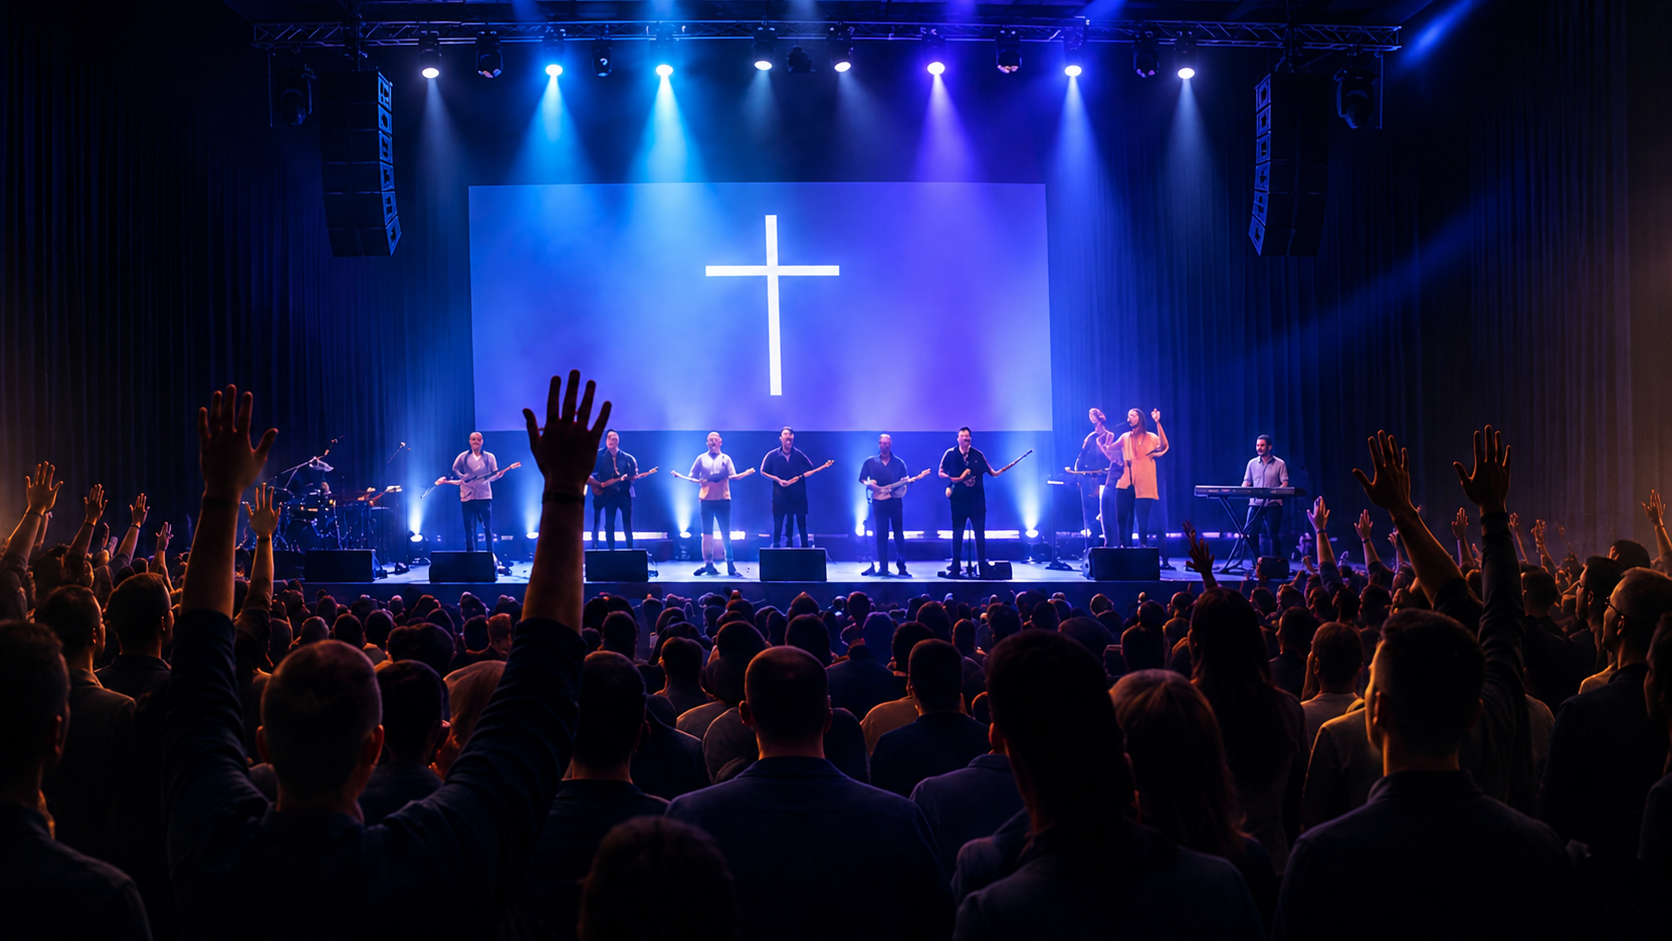
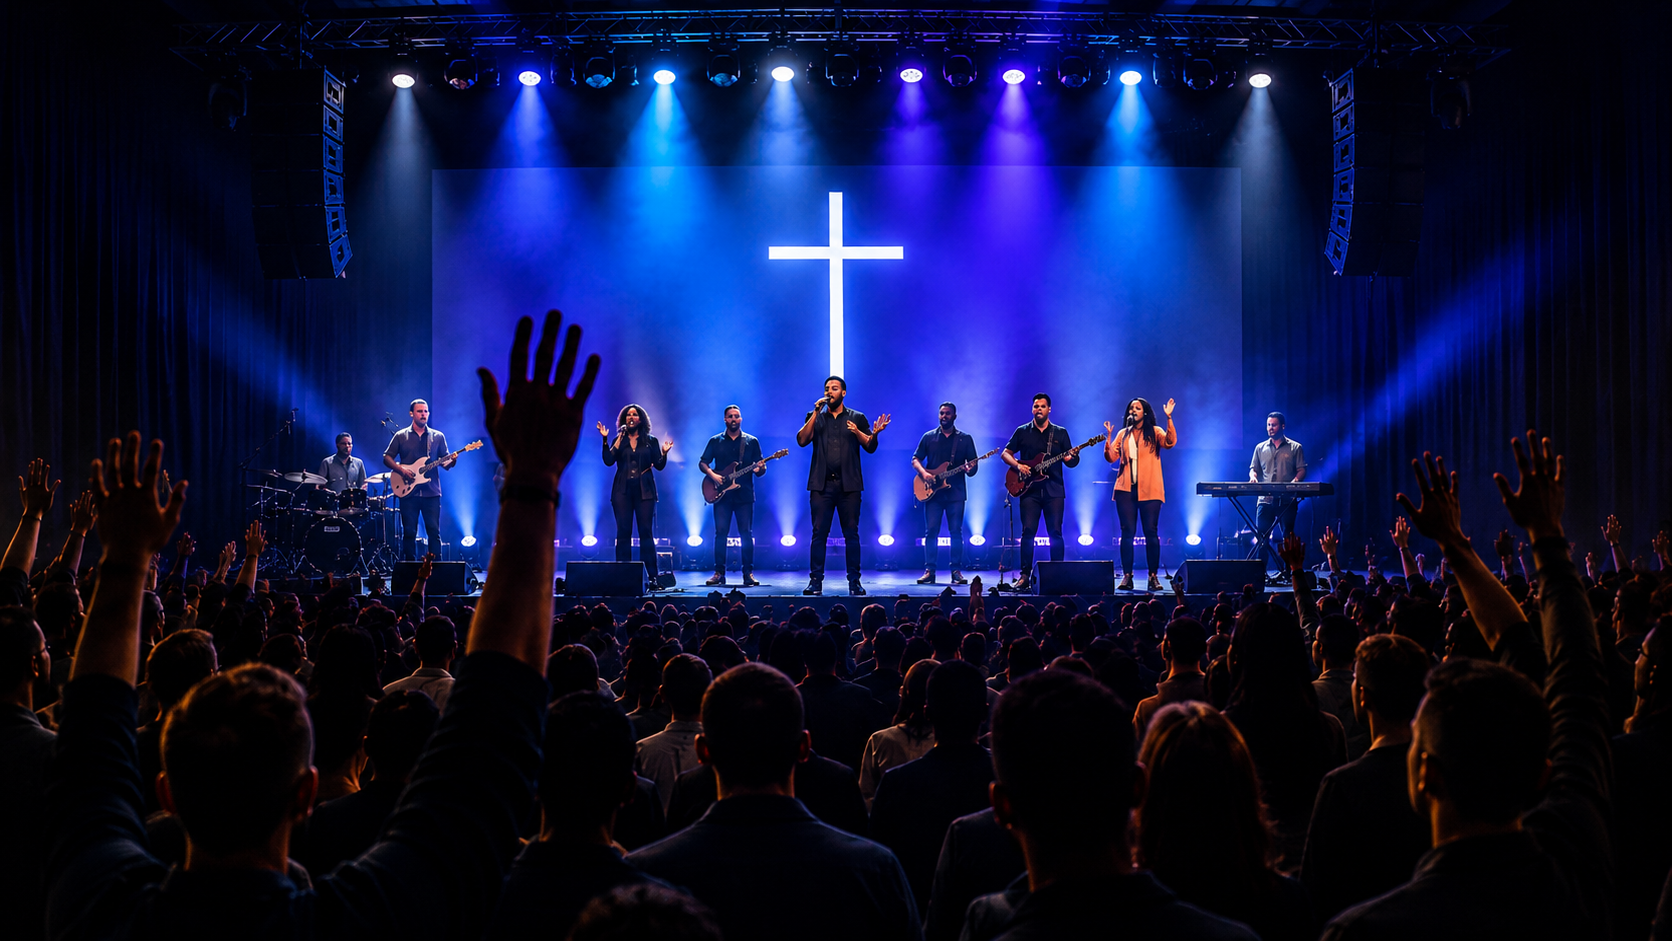
feat: enrichir la priere et les reperes bibliques

diff --git a/components/PrayerAccordion.tsx b/components/PrayerAccordion.tsx
@@ -1,0 +1,237 @@
+"use client";
+
+import { useState } from "react";
+
+type PrayerVerse = {
+  quote: string;
+  reference: string;
+};
+
+type PrayerSection = {
+  copy?: string;
+  verses: PrayerVerse[];
+};
+
+type PrayerTopic = {
+  title: string;
+  sections: PrayerSection[];
+};
+
+const prayerTopics: PrayerTopic[] = [
+  {
+    title: "Rendons grâce à Dieu",
+    sections: [
+      {
+        copy: "Rendons grâce à Dieu parce que nous ne sommes pas venus de nous-mêmes sur le territoire de Fontainebleau. Nous avons été envoyés et établis sous la couverture de l’Apôtre Yvan Castanou. Remercions Dieu pour cette couverture, cette vision et cet envoi.",
+        verses: [
+          {
+            quote: "Et comment y aura-t-il des prédicateurs, s’ils ne sont pas envoyés ?",
+            reference: "Romains 10:15"
+          },
+          {
+            quote: "Après avoir jeûné et prié, ils leur imposèrent les mains, et les laissèrent partir.",
+            reference: "Actes 13:3"
+          }
+        ]
+      },
+      {
+        copy: "Rendons grâce à Dieu parce que, jusqu’à ce jour, Il nous a toujours donné un lieu où nous rassembler et célébrer nos cultes. Malgré les changements et les contraintes, Il ne nous a jamais abandonnés et nous a toujours secourus.",
+        verses: [
+          {
+            quote: "Jusqu’ici l’Éternel nous a secourus.",
+            reference: "1 Samuel 7:12"
+          },
+          {
+            quote: "Car l’Éternel est bon ; Sa bonté dure toujours, et Sa fidélité de génération en génération.",
+            reference: "Psaume 100:5"
+          }
+        ]
+      },
+      {
+        copy: "Rendons grâce à Dieu pour tous les S.T.A.R. qui, jusqu’à ce jour, se sont mobilisés, ont servi, donné de leur temps et fait le nécessaire afin que chaque culte puisse avoir lieu.",
+        verses: [
+          {
+            quote: "Je rends grâces à mon Dieu de tout le souvenir que je garde de vous, [...] à cause de la part que vous prenez à l’Évangile.",
+            reference: "Philippiens 1:3,5"
+          },
+          {
+            quote: "Car Dieu n’est pas injuste, pour oublier votre travail et l’amour que vous avez montré pour Son nom.",
+            reference: "Hébreux 6:10"
+          }
+        ]
+      },
+      {
+        copy: "Rendons grâce à Dieu parce que nous croyons qu’Il tient entre Ses mains le cœur des autorités, des décideurs et des propriétaires sur le territoire de Fontainebleau, et qu’Il est capable de les incliner en faveur de Son dessein.",
+        verses: [
+          {
+            quote: "Le cœur du roi est un courant d’eau dans la main de l’Éternel ; Il l’incline partout où Il veut.",
+            reference: "Proverbes 21:1"
+          },
+          {
+            quote: "Ils célébrèrent avec joie [...] car l’Éternel les avait réjouis en inclinant vers eux le cœur du roi.",
+            reference: "Esdras 6:22"
+          }
+        ]
+      }
+    ]
+  },
+  {
+    title: "Prions pour que Dieu nous accorde Sa faveur dans toutes les démarches, les négociations et les décisions liées au projet.",
+    sections: [
+      {
+        verses: [
+          {
+            quote: "Le roi me donna ces lettres, car la bonne main de mon Dieu était sur moi.",
+            reference: "Néhémie 2:8"
+          },
+          {
+            quote: "Car Tu bénis le juste, ô Éternel ! Tu l’entoures de Ta grâce comme d’un bouclier.",
+            reference: "Psaume 5:13"
+          }
+        ]
+      }
+    ]
+  },
+  {
+    title: "Prions pour que Dieu pourvoie pleinement aux ressources nécessaires et suscite la générosité dans les cœurs.",
+    sections: [
+      {
+        verses: [
+          {
+            quote: "Dieu peut vous combler de toutes sortes de grâces, afin que, possédant toujours en toutes choses de quoi satisfaire à tous vos besoins, vous ayez encore en abondance pour toute bonne œuvre.",
+            reference: "2 Corinthiens 9:8"
+          },
+          {
+            quote: "Tout vient de Toi, et nous recevons de Ta main ce que nous T’offrons.",
+            reference: "1 Chroniques 29:14"
+          }
+        ]
+      }
+    ]
+  },
+  {
+    title: "Prions pour que toute la famille ICC Fontainebleau demeure unie autour de cette vision, dans un même cœur, une même foi et un même engagement.",
+    sections: [
+      {
+        verses: [
+          {
+            quote: "Qu’il est agréable, qu’il est doux pour des frères de demeurer ensemble !",
+            reference: "Psaume 133:1"
+          },
+          {
+            quote: "La multitude de ceux qui avaient cru n’était qu’un cœur et qu’une âme.",
+            reference: "Actes 4:32"
+          }
+        ]
+      }
+    ]
+  },
+  {
+    title: "Prions pour que Dieu nous protège de tout blocage, de toute opposition et de tout découragement, et qu’Il nous donne la force de persévérer jusqu’à l’accomplissement.",
+    sections: [
+      {
+        verses: [
+          {
+            quote: "Qui es-tu, grande montagne, devant Zorobabel ? Tu seras aplanie.",
+            reference: "Zacharie 4:7"
+          },
+          {
+            quote: "Si Dieu est pour nous, qui sera contre nous ?",
+            reference: "Romains 8:31"
+          }
+        ]
+      }
+    ]
+  },
+  {
+    title: "Prions pour que Dieu conduise et bénisse chaque étape des travaux, de l’aménagement et de l’installation, et qu’Il nous permette de mener cette œuvre jusqu’à son terme.",
+    sections: [
+      {
+        verses: [
+          {
+            quote: "Que la grâce de l’Éternel, notre Dieu, soit sur nous ! Affermis l’ouvrage de nos mains, oui, affermis l’ouvrage de nos mains !",
+            reference: "Psaume 90:17"
+          },
+          {
+            quote: "Celui qui a commencé en vous cette bonne œuvre la rendra parfaite pour le jour de Jésus-Christ.",
+            reference: "Philippiens 1:6"
+          }
+        ]
+      }
+    ]
+  },
+  {
+    title: "Prions pour que ce lieu devienne un véritable instrument entre les mains de Dieu : un lieu de salut, de transformation, de croissance et d’impact pour Fontainebleau et au-delà.",
+    sections: [
+      {
+        verses: [
+          {
+            quote: "Élargis l’espace de ta tente ; qu’on déploie les couvertures de ta demeure : ne retiens pas ! Allonge tes cordages, et affermis tes pieux !",
+            reference: "Ésaïe 54:2"
+          },
+          {
+            quote: "Je vous ai établis, afin que vous alliez, et que vous portiez du fruit, et que votre fruit demeure.",
+            reference: "Jean 15:16"
+          }
+        ]
+      }
+    ]
+  }
+];
+
+export default function PrayerAccordion() {
+  const [openTopic, setOpenTopic] = useState<number | null>(null);
+
+  return (
+    <div className="prayer-accordion" aria-label="Sujets de prière">
+      {prayerTopics.map(({ title, sections }, index) => {
+        const isOpen = openTopic === index;
+        const contentId = `prayer-topic-${index}`;
+        const buttonId = `prayer-topic-button-${index}`;
+
+        return (
+          <article className={`prayer-accordion-item ${isOpen ? "is-open" : ""}`} key={title}>
+            <button
+              id={buttonId}
+              className="prayer-accordion-trigger"
+              type="button"
+              aria-expanded={isOpen}
+              aria-controls={contentId}
+              onClick={() => setOpenTopic(isOpen ? null : index)}
+            >
+              <span className="prayer-accordion-marker" aria-hidden="true">✦</span>
+              <span>{title}</span>
+              <span className="prayer-accordion-toggle" aria-hidden="true">{isOpen ? "−" : "+"}</span>
+            </button>
+
+            <div
+              id={contentId}
+              className="prayer-accordion-content"
+              role="region"
+              aria-labelledby={buttonId}
+              aria-hidden={!isOpen}
+            >
+              <div className="prayer-accordion-inner">
+                <div className="prayer-accordion-body">
+                  {sections.map(({ copy, verses }, sectionIndex) => (
+                    <div className="prayer-topic-section" key={`${title}-${sectionIndex}`}>
+                      {copy && <p className="prayer-topic-copy">{copy}</p>}
+                      <div className="prayer-topic-verses">
+                        {verses.map(({ quote, reference }) => (
+                          <blockquote key={reference}>
+                            <p>« {quote} »</p>
+                            <cite>{reference}</cite>
+                          </blockquote>
+                        ))}
+                      </div>
+                    </div>
+                  ))}
+                </div>
+              </div>
+            </div>
+          </article>
+        );
+      })}
+    </div>
+  );
+}

diff --git a/app/globals.css b/app/globals.css
@@ -420,10 +420,13 @@ radial-gradient(circle at 50% 50%,rgba(243,181,26,.08),transparent 35%),
 .challenge-illustration::after{content:"";position:absolute;inset:0;background:linear-gradient(180deg,transparent 58%,rgba(2,13,29,.82))}
 .challenge-illustration img{width:100%;height:100%;object-fit:cover}
 .challenge-illustration figcaption{position:absolute;z-index:2;left:20px;bottom:18px;color:var(--gold-2);font-size:11px;font-weight:800;letter-spacing:.1em;text-transform:uppercase}
+.challenge-scripture{margin:22px 0 0;padding:22px 24px;border-left:2px solid var(--gold);background:rgba(243,181,26,.055)}
+.challenge-scripture p{margin:0;color:#e3e7ed;font-size:17px;line-height:1.6}
+.challenge-scripture cite{display:block;margin-top:12px;color:var(--gold);font-size:10px;font-style:normal;font-weight:800;letter-spacing:.14em;text-transform:uppercase}
 .major-challenge-card ul{grid-template-columns:repeat(2,1fr);gap:0 34px}
 .spiritual-verse cite{display:block;margin-top:14px;color:var(--gold);font-size:10px;font-style:normal;font-weight:800;letter-spacing:.14em;text-transform:uppercase}
 .spiritual-card{display:grid;grid-template-columns:1fr .75fr;gap:52px;align-items:stretch;margin-top:28px;background:linear-gradient(145deg,#0b2548,#06172f)}
-.spiritual-title-emphasis{display:inline-block;margin-top:8px;padding:7px 10px;border-radius:8px;background:linear-gradient(135deg,#ffd45e,#d99b00);color:#07172c;font-size:.44em;font-weight:900;line-height:1;text-transform:uppercase;vertical-align:middle;box-shadow:0 10px 26px rgba(243,181,26,.16)}
+.spiritual-title-emphasis{display:block;margin-top:8px;color:var(--gold-2);font-size:.78em;font-weight:800;line-height:1.08}
 .spiritual-card-copy>p:not(.eyebrow){color:#bdc7d5;font-size:17px;line-height:1.65}
 .spiritual-card-copy>p:not(.eyebrow)+p{margin-top:18px}
 .spiritual-card strong{display:block;margin-top:34px;padding-top:20px;border-top:1px solid rgba(243,181,26,.32);color:var(--gold-2);font-size:18px;line-height:1.5}
@@ -438,13 +441,24 @@ radial-gradient(circle at 50% 50%,rgba(243,181,26,.08),transparent 35%),
 .prayer-copy{margin:26px 0 0;color:#c9d2de;font-size:17px;line-height:1.7}
 .prayer-heading blockquote p{margin:0;font-size:24px;line-height:1.45;font-weight:700}
 .prayer-heading cite{display:block;margin-top:15px;color:var(--gold);font-size:12px;font-style:normal;font-weight:800;letter-spacing:.14em;text-transform:uppercase}
-.prayer-points-intro{margin:0 0 8px;color:var(--gold-2);font-size:14px;font-weight:700;line-height:1.5}
-.prayer-points{display:grid;grid-template-columns:repeat(2,1fr);gap:0 26px}
-.prayer-points>div{display:flex;gap:12px;align-items:flex-start;padding:17px 0;border-bottom:1px solid var(--line)}
-.prayer-points>div>span{color:var(--gold)}
-.prayer-points p{margin:0;color:#d4dbe5;font-size:15px;line-height:1.5}
-.prayer-points .prayer-point-verse{display:block;margin-top:6px;color:#9fabbc;font-size:12px;font-style:italic;line-height:1.55}
-.prayer-points cite{display:block;margin-top:5px;color:var(--gold);font-size:10px;font-style:normal;font-weight:800;letter-spacing:.12em;text-transform:uppercase}
+.prayer-points-intro{margin:0 0 12px;color:var(--gold-2);font-size:15px;font-weight:800;line-height:1.5}
+.prayer-accordion{border-bottom:1px solid var(--line)}
+.prayer-accordion-item{border-top:1px solid var(--line)}
+.prayer-accordion-trigger{width:100%;display:grid;grid-template-columns:18px minmax(0,1fr) 30px;gap:12px;align-items:start;padding:22px 0;border:0;color:#e4e8ee;background:none;text-align:left;cursor:pointer;font:inherit}
+.prayer-accordion-trigger>span:nth-child(2){font-size:16px;font-weight:700;line-height:1.55}
+.prayer-accordion-marker{padding-top:3px;color:var(--gold);font-size:12px}
+.prayer-accordion-toggle{width:28px;height:28px;display:grid;place-items:center;border:1px solid rgba(243,181,26,.38);border-radius:50%;color:var(--gold);font-size:20px;line-height:1;transition:background .25s ease,color .25s ease}
+.prayer-accordion-item.is-open .prayer-accordion-toggle{color:#07172c;background:var(--gold)}
+.prayer-accordion-content{display:grid;grid-template-rows:0fr;opacity:0;transition:grid-template-rows .48s cubic-bezier(.22,1,.36,1),opacity .3s ease}
+.prayer-accordion-item.is-open .prayer-accordion-content{grid-template-rows:1fr;opacity:1}
+.prayer-accordion-inner{min-height:0;overflow:hidden}
+.prayer-accordion-body{padding:0 0 26px 30px}
+.prayer-topic-section+.prayer-topic-section{margin-top:24px;padding-top:24px;border-top:1px solid rgba(255,255,255,.08)}
+.prayer-topic-copy{margin:0 0 15px;color:#cbd3de;font-size:14px;line-height:1.65}
+.prayer-topic-verses{display:grid;gap:10px}
+.prayer-topic-verses blockquote{margin:0;padding:15px 17px;border-left:2px solid var(--gold);background:rgba(243,181,26,.045)}
+.prayer-topic-verses p{margin:0;color:#aeb9c8;font-size:13px;font-style:italic;line-height:1.6}
+.prayer-topic-verses cite{display:block;margin-top:8px;color:var(--gold);font-size:9px;font-style:normal;font-weight:800;letter-spacing:.12em;text-transform:uppercase}
 .history-block{margin-top:124px;padding-top:112px;border-top:1px solid rgba(243,181,26,.28);scroll-margin-top:80px}
 .history-block-first{margin-top:0;padding-top:0;border-top:0}
 .campaign-stage-heading{margin-top:124px}
@@ -465,7 +479,6 @@ radial-gradient(circle at 50% 50%,rgba(243,181,26,.08),transparent 35%),
   .photo-wall-track{height:194px}
   .solidarity-grid{grid-template-columns:repeat(3,1fr)}
   .prophecy-video-grid{grid-template-columns:repeat(2,1fr)}
-  .prayer-points{grid-template-columns:repeat(2,1fr)}
 }
 
 @media(max-width:820px){
@@ -565,8 +578,12 @@ radial-gradient(circle at 50% 50%,rgba(243,181,26,.08),transparent 35%),
   .prayer-block{margin-top:18px;padding:32px 24px}
   .prayer-title{font-size:46px}
   .prayer-copy{font-size:16px;line-height:1.68}
-  .prayer-points{grid-template-columns:1fr}
   .prayer-heading blockquote p{font-size:21px}
+  .prayer-topics{margin-top:6px}
+  .prayer-accordion-trigger{grid-template-columns:16px minmax(0,1fr) 28px;gap:9px;padding:19px 0}
+  .prayer-accordion-trigger>span:nth-child(2){font-size:15px;line-height:1.5}
+  .prayer-accordion-body{padding:0 0 23px 25px}
+  .prayer-topic-copy{font-size:14px}
   .history-block{margin-top:82px;padding-top:78px}
   .history-block-first{margin-top:0;padding-top:0}
   .projection-showcase{margin-top:78px;padding-top:72px}
@@ -588,6 +605,7 @@ radial-gradient(circle at 50% 50%,rgba(243,181,26,.08),transparent 35%),
   .photo-wall-static{display:grid;grid-template-columns:repeat(3,minmax(0,1fr));gap:12px}
   .photo-wall-static .photo-wall-card{width:100%;height:180px;transform:none}
   .photo-wall .projection-disclaimer{position:static;margin-top:12px;text-align:right}
+  .prayer-accordion-content,.prayer-accordion-toggle{transition:none}
 }
 
 @media(max-width:720px) and (prefers-reduced-motion:reduce){

diff --git a/components/Story.tsx b/components/Story.tsx
@@ -1,5 +1,6 @@
 import { Check, Church, Play, ShieldCheck } from "lucide-react";
-import { prayerPoints, projectNeeds, propheticVoices } from "@/content/campaign";
+import { projectNeeds, propheticVoices } from "@/content/campaign";
+import PrayerAccordion from "./PrayerAccordion";
 
 export default function Story() {
   return (
@@ -77,6 +78,11 @@ export default function Story() {
             <figcaption>Illustration inspirée d’Exode 11:2</figcaption>
           </figure>
 
+          <blockquote className="challenge-scripture">
+            <p>« Que chacun demande à son voisin et chacune à sa voisine des vases d’argent et des vases d’or. »</p>
+            <cite>Exode 11:2</cite>
+          </blockquote>
+
           <ul>
             {projectNeeds.map((need) => <li key={need}><Check />{need}</li>)}
           </ul>
@@ -86,7 +92,7 @@ export default function Story() {
           <div className="spiritual-card-copy">
             <div className="gold-icon"><Church /></div>
             <p className="eyebrow">La portée spirituelle du projet</p>
-            <h3>Un lieu consacré à Dieu <span className="spiritual-title-emphasis">: un autel royal&nbsp;!</span></h3>
+            <h3>Un lieu consacré à Dieu : <span className="spiritual-title-emphasis">un autel royal&nbsp;!</span></h3>
             <p>
               Au-delà d’un lieu de rassemblement, d’adoration, de formation, de refuge, de soutien… nous voulons établir
               à Fontainebleau un espace mis à part pour Dieu, où Son nom sera invoqué, Sa présence recherchée,
@@ -113,7 +119,10 @@ export default function Story() {
             <p className="eyebrow">Bâtir dans la prière</p>
             <h2 className="prayer-title">Prions <span className="gold-text">ensemble.</span></h2>
             <p className="prayer-copy">
-              À l’image de Néhémie, nous ne voulons pas seulement bâtir avec nos forces : nous voulons prier, discerner et agir.
+              À l’image de Néhémie, nous ne voulons pas bâtir sur la base de nos propres forces. Nous voulons d’abord activer
+              l’arme de la prière : nous voulons prier, discerner et agir.
+            </p>
+            <p className="prayer-copy">
               La prière accompagne chaque étape du projet, depuis la recherche du lieu jusqu’à son aménagement et son ouverture.
             </p>
             <blockquote>
@@ -121,20 +130,9 @@ export default function Story() {
               <cite>Néhémie 4:9</cite>
             </blockquote>
           </div>
-          <div>
-            <p className="prayer-points-intro">Nous nous accordons notamment dans la prière pour :</p>
-            <div className="prayer-points">
-              {prayerPoints.map(({ point, quote, verse }) => (
-                <div key={point}>
-                  <span>✦</span>
-                  <p>
-                    {point}
-                    <span className="prayer-point-verse">« {quote} »</span>
-                    <cite>{verse}</cite>
-                  </p>
-                </div>
-              ))}
-            </div>
+          <div className="prayer-topics">
+            <p className="prayer-points-intro">Accordons-nous dans la prière sur ces sujets :</p>
+            <PrayerAccordion />
           </div>
         </div>
 

diff --git a/components/Donation.tsx b/components/Donation.tsx
@@ -8,7 +8,7 @@ export default function Donation() {
           <p className="eyebrow">Contribuer</p>
           <h2>Je <span className="gold-text">participe.</span></h2>
           <p className="donation-copy">
-            Les contributions permettent de couvrir la location, les travaux d’aménagement,
+            Les contributions permettent de couvrir les travaux d’aménagement,
             les finitions, l’équipement et l’installation du futur lieu.
           </p>
           <p className="donation-copy">Chacun reste libre du montant et du rythme de sa contribution.</p>
